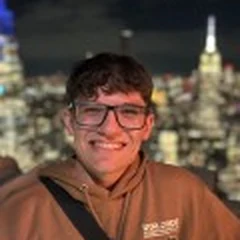
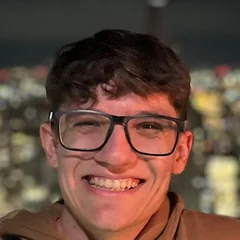
Reemplazar el retrato de Nueva York por una versión de mayor calidad
- "Sobre mí": WebP de 600 y 960 px con srcset (antes 200 px y se veía borroso)
- Círculo del titular: nuevo recorte de la cara desde la foto original

Claude-Session: https://claude.ai/code/session_019YbqtfwPyiQLXpeR1Z1JZn

diff --git a/index.html b/index.html
@@ -177,7 +177,7 @@
                         <p style="margin-top:10px">Mi formación full stack me permite hablar el mismo idioma que el equipo técnico y entregar diseños viables desde el primer día.</p>
                         <a class="btn" href="pages/contacto.html">Contactame <svg viewBox="0 0 16 16" aria-hidden="true"><path d="M3 8h10M9 4l4 4-4 4" fill="none" stroke="currentColor" stroke-width="1.6" stroke-linecap="round" stroke-linejoin="round"/></svg></a>
                     </div>
-                    <div class="b-intro__photo"><img src="./assets/img/tomas-retrato-nyc-200.webp" width="200" height="200" alt="Retrato de Tomás Berón de noche en Nueva York" loading="lazy" decoding="async"></div>
+                    <div class="b-intro__photo"><img src="./assets/img/tomas-retrato-nyc-600.webp" srcset="./assets/img/tomas-retrato-nyc-600.webp 600w, ./assets/img/tomas-retrato-nyc-960.webp 960w" sizes="(max-width: 680px) 100vw, 25vw" width="960" height="1280" alt="Retrato de Tomás Berón de noche en Nueva York" loading="lazy" decoding="async"></div>
                 </article>
                 <div class="b-card b-stat reveal">
                     <strong>8 años</strong>
